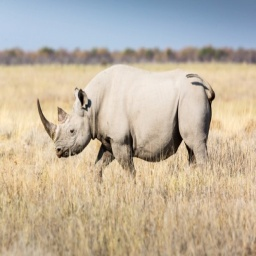
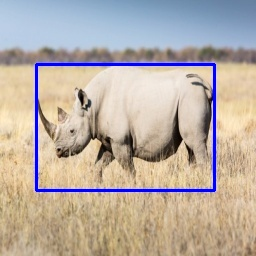
analysing problems with bb

Changed region(s): [[0.125, 0.2188, 0.875, 0.7812]]

diff --git a/spherenet/coords.py b/spherenet/coords.py
@@ -11,6 +11,7 @@ from xml.etree import ElementTree as et
 import torch
 from torch.utils import data
 from torchvision import datasets
+import sys
 
 # Misc
 from functools import lru_cache
@@ -36,7 +37,7 @@ def xyz2uv(xyz):
     return np.stack([u, v], axis=-1)
 
 
-def uv2img_idx(uv, h, w, u_fov, v_fov, v_c=0):
+def uv2img_idx(uv, h, w, u_fov, v_fov, v_c=np.pi/90):
     assert 0 < u_fov and u_fov < np.pi
     assert 0 < v_fov and v_fov < np.pi
     assert -np.pi < v_c and v_c < np.pi
@@ -65,7 +66,17 @@ def uv2img_idx(uv, h, w, u_fov, v_fov, v_c=0):
               (v < -v_fov / 2) | (v > v_fov / 2)
     x[invalid] = -100
     y[invalid] = -100
+    print (u)
 
+    '''if (u[1] < -u_fov / 2):
+        x = 0
+    if (u[] > u_fov / 2):
+        x = 256
+    if (v[] < -v_fov / 2):
+        y = 0
+    if (v > v_fov / 2):
+        y = 256
+    '''
     return np.stack([y, x], axis=0)
 
 import shutil
@@ -74,24 +85,30 @@ import os
 path = "/home/msnuel/trab-final-cv/animals/train"
 dirs = os.listdir( path )
 
+file = 'image_10.txt'
+
 # This would print all the files and directories
-for file in dirs:
-    if file.endswith('txt'):
-        with open(f'{path}/{file}') as f:
-            labels, x_min, y_min, x_max, y_max = f.read().split()
-        
-            u = np.array([int(float(x_min)*256), int(float(y_max)*256)])
-            v = np.array([int(float(y_min)*256), int(float(y_max)*256)])
+#for file in dirs:
+#    if file.endswith('txt'):
+with open(f'{path}/{file}') as f:
+    print(file)
+    labels, x_min, y_min, x_max, y_max = f.read().split()
 
-            u, v = np.meshgrid(u, v)
-            
-            u = (u + 0.5) * 2 * np.pi / 256 - np.pi
-            v = (v + 0.5) * np.pi / 256 - np.pi / 2
+    u = np.array([int(float(x_min)*512), int(float(x_max)*512)])
+    v = np.array([int(float(y_min)*512), int(float(y_max)*512)])
 
-            uv = np.stack([u, v], axis=-1)
-            #print(uv)
+    print(u,v)
+    
+    #u, v = np.meshgrid(u, v)
+    u = (u + 0.5) * 2 * np.pi / 512 - np.pi
+    v = (v + 0.5) * np.pi / 512 - np.pi / 2
 
-            fov = 178 * np.pi / 180
-            img_idx = uv2img_idx(uv, 256, 256, fov, fov, 0)
-            #x = map_coordinates(img, img_idx, order=1)
-            print(img_idx)
+
+    uv = np.stack([u, v], axis=-1)
+    print(uv)
+
+    fov = 120 * np.pi / 180
+    img_idx = uv2img_idx(uv, 512, 512, fov, fov)
+    #x = map_coordinates(img, img_idx, order=1)
+    print(img_idx)
+    sys.exit(0)

diff --git a/plot_bbs.py b/plot_bbs.py
@@ -9,7 +9,7 @@ import numpy as np
 import pandas as pd
 
 
-path = r'/home/msnuel/trab-final-cv/animals/train/image_0.jpg'
+path = r'/home/msnuel/trab-final-cv/outfile.jpg'
 
 # Reading an image in default mode
 image = cv2.imread(path)
@@ -28,18 +28,18 @@ img_height = image.shape[0]
 
 #df = pd.DataFrame()
 
-df = pd.read_csv(r'/home/msnuel/trab-final-cv/animals/train/image_0.txt', sep =' ', header=None)
+df = pd.read_csv(r'/home/msnuel/trab-final-cv/animals/train/image_10.txt', sep =' ', header=None)
 
 df.columns = ['class','x', 'y','h','w']
 
 new_df = pd.DataFrame()
 new_df['class'] = df['class']
 
-new_df['a'] = (df['x'])*256 #*img_width
-new_df['b'] = (df['y'])*256     #*img_height
+new_df['x_min'] = (df['x'])*256 #*img_width
+new_df['y_min'] = (df['y'])*256     #*img_height
 
-new_df['c'] = df['h']*256 #+df['w']/2)*img_width
-new_df['d'] = df['w']*256 #+df['h']/2)*img_height
+new_df['x_max'] = df['h']*256 #+df['w']/2)*img_width
+new_df['y_max'] = df['w']*256 #+df['h']/2)*img_height
 
 #print(new_df)
 #new_df = new_df.reset_index()
@@ -50,10 +50,10 @@ for index, row in new_df.iterrows():
 	# Start coordinate, here (5, 5)
 	# represents the top left corner of rectangle
 	#print(row['a'], row['b'])
-	start_point = (int(row['a']), int(row['b']))
+	start_point = (int(row['x_min']), int(row['y_min']))
 	# Ending coordinate, here (220, 220)
 	# represents the bottom right corner of rectangle
-	end_point = (int(row['c']), int(row['d']))
+	end_point = (int(row['x_max']), int(row['y_max']))
 	print(end_point)
 	# Draw a rectangle with blue line borders of thickness of 2 px
 	image = cv2.rectangle(image, start_point, end_point, color, thickness)

diff --git a/spherenet/dataset.py b/spherenet/dataset.py
@@ -15,6 +15,7 @@ from torchvision import datasets
 # Misc
 from functools import lru_cache
 import cv2
+from matplotlib import pyplot as plt 
 
 
 def genuv(h, w):
@@ -72,6 +73,18 @@ def uv2img_idx(uv, h, w, u_fov, v_fov, v_c=0):
 
     invalid = (u < -u_fov / 2) | (u > u_fov / 2) |\
               (v < -v_fov / 2) | (v > v_fov / 2)
+
+    '''
+    if (u < -u_fov / 2):
+        x = 0
+    if (u > u_fov / 2):
+        x = 256
+    if (v < -v_fov / 2):
+        y = 0
+    if (v > v_fov / 2):
+        y =256
+    '''
+
     x[invalid] = -100
     y[invalid] = -100
 
@@ -123,7 +136,14 @@ class OmniDataset(data.Dataset):
             img_idx = uv2img_idx(uv, h, w, fov, fov, v_c)
         else:
             img_idx = uv2img_idx(uv, h, w, fov, fov, 0)
+        
+        print(len(np.unique(img_idx[0])))
         x = map_coordinates(img, img_idx, order=1)
+
+        #plt.imshow(img_idx[0])
+        #plt.show()
+        
+
 
         #print(img_idx)
         #print(img_idx.shape) 
@@ -151,6 +171,8 @@ class OmniDataset(data.Dataset):
             x = x - self.img_mean
         if self.img_std is not None:
             x = x / self.img_std
+
+
 
         return torch.FloatTensor(x.copy()), self.dataset[idx][1]
 
